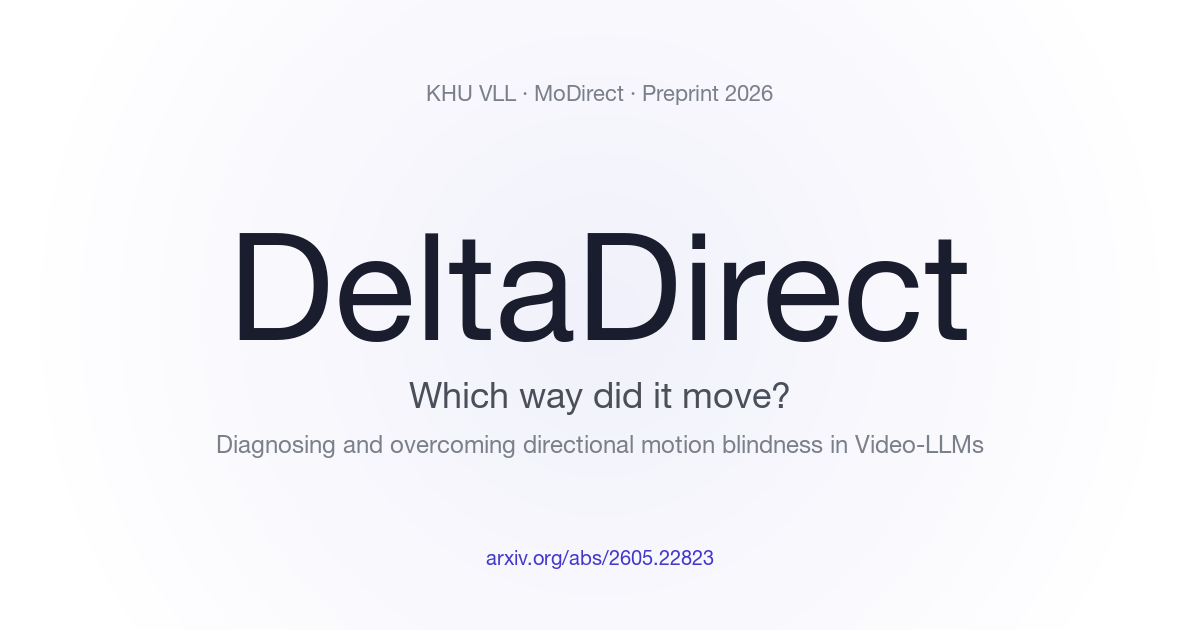
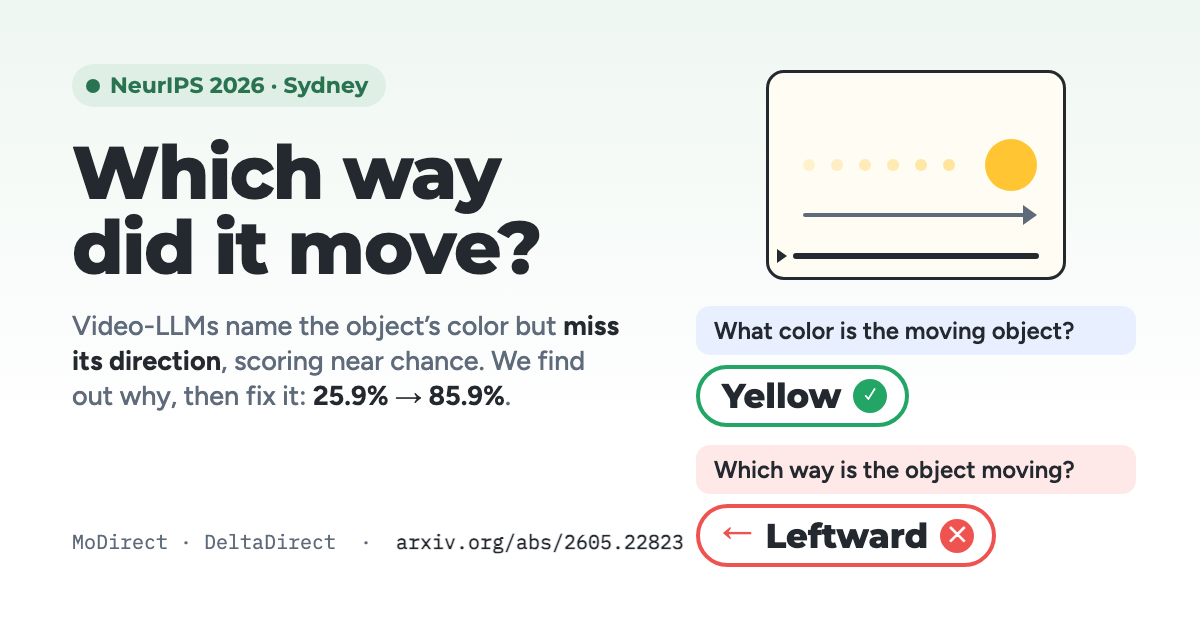
Redraw the link-preview card; add a promo kit
The old og-card was a text-only card that still said Preprint 2026.
The new one carries the NeurIPS 2026 badge, the yellow ball, the
Yellow / Leftward Q&A and 25.9% -> 85.9%. Its source is
tools/og-card.html, rendered by tools/render-og.sh with headless Chrome.

docs/promo-kit.md holds ready-to-post copy for X, LinkedIn, Reddit and
Korean channels, with the asset for each post and a posting order.

diff --git a/tools/og-card.html b/tools/og-card.html
@@ -1,0 +1,80 @@
+<!DOCTYPE html>
+<!-- The link-preview card (1200×630). Render it with tools/render-og.sh. -->
+<html lang="en">
+<head>
+  <meta charset="UTF-8">
+  <link rel="stylesheet" href="../css/fonts.css">
+  <style>
+    html, body { margin: 0; width: 1200px; height: 630px; overflow: hidden; }
+    body {
+      background: #ffffff; color: #24292f;
+      font-family: "Figtree", -apple-system, "Helvetica Neue", Arial, sans-serif;
+      position: relative;
+    }
+    .band { position: absolute; inset: 0; background: linear-gradient(180deg, #eff7f2 0%, #ffffff 70%); }
+    .left { position: absolute; left: 72px; top: 64px; width: 560px; }
+    .venue {
+      display: inline-flex; align-items: center; gap: 10px;
+      font-family: "Montserrat", sans-serif; font-weight: 700; font-size: 22px;
+      color: #2a7350; background: #e0efe6; border-radius: 999px; padding: 8px 18px 8px 14px;
+    }
+    .venue .dot { width: 14px; height: 14px; border-radius: 50%; background: #2a7350; }
+    h1 {
+      font-family: "Montserrat", sans-serif; font-weight: 800; font-size: 74px; line-height: 1.02;
+      letter-spacing: -0.02em; margin: 28px 0 22px;
+    }
+    .sub { font-size: 27px; line-height: 1.3; color: #5f6b7a; font-weight: 500; margin: 0; }
+    .sub b { color: #24292f; font-weight: 700; }
+    .foot { position: absolute; left: 72px; bottom: 56px; font-family: "IBM Plex Mono", monospace; font-size: 20px; color: #5f6b7a; }
+    .foot b { color: #24292f; font-weight: 600; }
+
+    /* the demo: video frame, then two Q/A pairs */
+    .demo { position: absolute; right: 64px; top: 70px; width: 440px; }
+    .frame {
+      width: 300px; height: 210px; margin: 0 auto 26px; border: 3px solid #24292f; border-radius: 18px;
+      background: #fffdf3; position: relative; box-sizing: border-box;
+    }
+    .trail { position: absolute; left: 34px; top: 86px; display: flex; gap: 16px; align-items: center; }
+    .trail i { width: 12px; height: 12px; border-radius: 50%; background: #ffc533; opacity: .45; }
+    .trail i:nth-child(1) { opacity: .2 } .trail i:nth-child(2) { opacity: .25 } .trail i:nth-child(3) { opacity: .3 }
+    .trail i:nth-child(4) { opacity: .35 } .trail i:nth-child(5) { opacity: .4 } .trail i:nth-child(6) { opacity: .45 }
+    .ball { position: absolute; left: 216px; top: 66px; width: 52px; height: 52px; border-radius: 50%; background: #ffc533; }
+    .arrow { position: absolute; left: 34px; top: 140px; width: 232px; height: 4px; background: #5f6b7a; border-radius: 2px; }
+    .arrow::after { content: ""; position: absolute; right: -2px; top: -8px; border: 10px solid transparent; border-left: 14px solid #5f6b7a; border-right: 0; }
+    .bar { position: absolute; left: 24px; right: 24px; bottom: 18px; height: 6px; border-radius: 3px; background: #24292f; }
+    .bar::before { content: ""; position: absolute; left: -16px; top: -4px; border: 7px solid transparent; border-left: 10px solid #24292f; border-right: 0; }
+    .q { font-weight: 600; font-size: 24px; padding: 10px 18px; border-radius: 14px; margin: 0 0 10px; }
+    .q.blue { background: #e8f0ff; } .q.red { background: #ffe9e8; }
+    .a {
+      display: inline-flex; align-items: center; gap: 12px; font-family: "Montserrat", sans-serif; font-weight: 800;
+      font-size: 34px; padding: 6px 18px 6px 22px; border: 4px solid; border-radius: 999px; margin: 0 0 18px; background: #fff;
+    }
+    .a.ok { border-color: #22a565; } .a.no { border-color: #ef5350; }
+    .mark { width: 34px; height: 34px; border-radius: 50%; display: inline-grid; place-items: center; color: #fff; font-size: 22px; font-family: sans-serif; }
+    .ok .mark { background: #22a565; } .no .mark { background: #ef5350; }
+    .no .dir { color: #ef5350; font-weight: 700; margin-right: 2px; }
+  </style>
+</head>
+<body>
+  <div class="band"></div>
+  <div class="left">
+    <span class="venue"><span class="dot"></span>NeurIPS 2026 · Sydney</span>
+    <h1>Which way<br>did it move?</h1>
+    <p class="sub">Video-LLMs name the object’s color but <b>miss its direction</b>, scoring near chance. We find out why, then fix it: <b>25.9% → 85.9%</b>.</p>
+  </div>
+  <p class="foot">MoDirect · DeltaDirect &nbsp;·&nbsp; <b>arxiv.org/abs/2605.22823</b></p>
+
+  <div class="demo">
+    <div class="frame">
+      <div class="trail"><i></i><i></i><i></i><i></i><i></i><i></i></div>
+      <div class="ball"></div>
+      <div class="arrow"></div>
+      <div class="bar"></div>
+    </div>
+    <p class="q blue">What color is the moving object?</p>
+    <p class="a ok">Yellow <span class="mark">✓</span></p>
+    <p class="q red">Which way is the object moving?</p>
+    <p class="a no"><span class="dir">←</span> Leftward <span class="mark">✕</span></p>
+  </div>
+</body>
+</html>

diff --git a/docs/promo-kit.md b/docs/promo-kit.md
@@ -1,0 +1,223 @@
+# 홍보 키트 — Which Way Did It Move? (NeurIPS 2026)
+
+바로 복사해서 올릴 수 있게 채널별 글과 첨부 파일을 정리했다. 숫자는 전부 `data/results.json`과 프로젝트 페이지 기준.
+
+링크
+- 페이지: https://jong980812.github.io/which-way-did-it-move/
+- arXiv: https://arxiv.org/abs/2605.22823
+- 코드: https://github.com/KHU-VLL/DeltaDirect
+- 데이터: https://huggingface.co/datasets/KHUjongseo/Modirect-family
+- HF Papers: https://huggingface.co/papers/2605.22823
+
+---
+
+## 0. 한 줄 메시지와 숫자 치트시트
+
+한 줄: **Video-LLM은 공 색깔은 맞히지만 어느 쪽으로 움직였는지는 찍기 수준이다. 왜 그런지 찾아냈고, 고쳤다.**
+
+| 쓸 숫자 | 값 |
+|---|---|
+| LLaVA-Video-7B, MoDirect-SynBench | 25.9% (chance 25%) |
+| GPT-5 / Gemini 2.5 Flash / Qwen2.5-VL-72B | 58.9 / 53.5 / 57.3 |
+| 모션 특화 모델 최고 (Motion-o-7B) | 37.7 |
+| 프로브 정확도 encoder → projector → LLM | 99.8 → 96.5 → 95.3 |
+| 모델 자신의 답 (Primitive-on-Syn) | 27.6 |
+| 튜닝 후 in-domain | 27.6 → 99.5 |
+| magnitude만 복원했을 때 OOD 회복 | 최대 +15.5 (Cutout-on-Real) |
+| DeltaDirect, SynBench | 25.9 → 85.9 |
+| DeltaDirect, RealBench (실제 영상 튜닝 데이터 0) | 43.1 → 64.5 (+21.4) |
+| Qwen2-0.5B + DeltaDirect, SynBench | 92.4 |
+| 데이터 | MoDirect-Inst 100K, SynBench 4 도메인 × 6K, RealBench 2,024 |
+
+---
+
+## 1. 첨부 파일 매핑
+
+| 파일 | 어디에 | 비고 |
+|---|---|---|
+| `materials/hero_reel_1920x1200_intro.mp4` | X 1번 트윗, LinkedIn | 29초, 1.3MB. 첫 트윗은 반드시 영상 |
+| `materials/hero_reel_1080x1080.gif` | GitHub README 상단, Reddit | 8.7MB (X는 15MB까지 가능) |
+| `static/videos/hero_reel_4x5.mp4` | Instagram, LinkedIn 모바일 | 세로 4:5 |
+| `static/images/teaser_b.png` | X 2번 트윗 (색 vs 방향 막대) | 가장 직관적인 한 장 |
+| `static/images/figure_3.png` | X 3번 트윗 (binding gap) | |
+| `static/images/fig5_magnitude.png` | X 4번 트윗 (magnitude deficit) | |
+| `static/videos/deltadirect_reel_1920x840.mp4` | X 5번 트윗 (method) | 18초 |
+| `static/videos/domains/*.mp4` | 데이터셋 트윗, HF 카드 | 4개 도메인 예시 영상 |
+| `static/images/og-card.png` | 자동 (링크 미리보기) | 이번에 새로 그림, 아래 9절 |
+
+---
+
+## 2. X (Twitter) 스레드 — 영어
+
+링크는 1번 트윗에 넣지 않는다(도달률이 떨어짐). 마지막 트윗과 답글에 몰아 넣는다.
+
+**1/**
+Video-LLMs can tell you the ball is yellow.
+Ask which way it moved, and most of them are at chance.
+
+GPT-5 gets 58.9%. Open 7B models sit at 25%.
+
+We call it *directional motion blindness*. We find where it comes from, and we fix it.
+NeurIPS 2026 🧵
+📎 `hero_reel_1920x1200_intro.mp4`
+
+**2/**
+The test is as simple as it gets: one object, plain background, moving left / right / up / down. Four-way multiple choice, chance = 25%.
+
+LLaVA-Video-7B: 25.9%. Motion-specialized models don't do better. Color on the same videos: >90%.
+📎 `teaser_b.png`
+
+**3/**
+So where does the direction get lost?
+
+We trace it with linear probes. Vision encoder: 99.8%. Projector: 96.5%. LLM hidden states: 95.3%.
+The model's own answer: 27.6%.
+
+The information is there. It never gets bound to the answer. We call this the *direction binding gap*.
+📎 `figure_3.png`
+
+**4/**
+Instruction tuning on synthetic data closes the gap in-domain (27.6 → 99.5), but it reopens on harder domains.
+
+Concept-vector analysis shows why: the direction concept points the *same way* across domains, but its *magnitude* shrinks with visual complexity. Rescaling magnitude alone recovers up to 15.5 points.
+📎 `fig5_magnitude.png`
+
+**5/**
+The diagnosis says where to intervene: the projector.
+
+DeltaDirect is a training-only auxiliary head that predicts normalized 2-D motion vectors from adjacent-frame feature deltas. Nothing changes at inference.
+📎 `deltadirect_reel_1920x840.mp4`
+
+**6/**
+Results, LLaVA-Video-7B:
+• MoDirect-SynBench 25.9% → 85.9%
+• Real videos (SSv2 / KTH / TOMATO) +21.4 points, with zero real-world tuning data
+• Standard video benchmarks preserved
+
+A 0.5B LLM with DeltaDirect hits 92.4% on SynBench.
+
+**7/**
+Everything is released:
+• MoDirect-Inst: 100K videos with per-frame motion vectors
+• MoDirect-SynBench (4 domains × 6K) and RealBench
+• Code, Apache-2.0
+
+📄 https://arxiv.org/abs/2605.22823
+🌐 https://jong980812.github.io/which-way-did-it-move/
+💻 https://github.com/KHU-VLL/DeltaDirect
+🤗 https://huggingface.co/datasets/KHUjongseo/Modirect-family
+
+**8/**
+Joint work with Hyuntak Lee (co-first), Sunghun Kim, Sooa Kim, Jihoon Chung (Princeton) and Jinwoo Choi, at KHU VLL.
+
+Come find us in Sydney. If your Video-LLM also can't tell left from right, we'd love to hear about it.
+
+답글(스레드 밖): "If you find this useful, the HF Papers page is here: https://huggingface.co/papers/2605.22823" 그리고 `@_akhaliq` 태그는 7번 트윗에 리플로.
+
+---
+
+## 3. LinkedIn — 영어
+
+Our paper "Which Way Did It Move? Diagnosing and Overcoming Directional Motion Blindness in Video-LLMs" was accepted to NeurIPS 2026.
+
+The finding is easy to state. Show a Video-LLM a single yellow ball moving left to right. It will tell you the ball is yellow. Ask which way it moved, and most models answer at chance level. GPT-5 reaches 58.9%; open 7B models sit at 25%.
+
+We traced the failure through the model. Linear probes recover the direction from the vision encoder, the projector and the LLM hidden states at 95 to 99% accuracy. The model's own answer is correct 27.6% of the time. The information is present but never bound to the answer, which we call the direction binding gap.
+
+The diagnosis pointed at one place to intervene. DeltaDirect is a training-only objective at the projector that predicts 2-D motion vectors from adjacent-frame feature deltas. It raises LLaVA-Video-7B from 25.9% to 85.9% on our synthetic benchmark and by 21.4 points on real videos, with no real-world tuning data and no change at inference.
+
+We release MoDirect, a dataset family of 100K instruction-tuning videos plus synthetic and real benchmarks, and the code.
+
+Paper: https://arxiv.org/abs/2605.22823
+Project page: https://jong980812.github.io/which-way-did-it-move/
+Code and data: https://github.com/KHU-VLL/DeltaDirect
+
+With Hyuntak Lee, Sunghun Kim, Sooa Kim, Jihoon Chung and Jinwoo Choi. See you in Sydney.
+📎 `hero_reel_1920x1200_intro.mp4`
+
+---
+
+## 4. 한국어 포스트 (X / 페이스북 / 링크드인)
+
+NeurIPS 2026에 논문이 붙었습니다. "Which Way Did It Move?"
+
+내용은 한 문장입니다. Video-LLM한테 노란 공이 왼쪽에서 오른쪽으로 가는 영상을 보여주면, 공이 노란색인 건 맞히는데 어느 쪽으로 갔는지는 찍는 수준(25%)입니다. GPT-5도 58.9%입니다.
+
+왜 그런지 모델 안을 따라가 봤습니다. 비전 인코더, 프로젝터, LLM 히든 스테이트 어디서든 linear probe로 방향을 95~99% 읽어낼 수 있는데, 정작 모델의 답은 27.6%입니다. 정보는 있는데 답에 안 묶이는 것, 이걸 direction binding gap이라고 이름 붙였습니다.
+
+그래서 프로젝터 단에서 인접 프레임 feature 차이로 2D 모션 벡터를 맞히게 하는 보조 목적함수(DeltaDirect)를 학습 때만 붙였습니다. 추론은 그대로인데 25.9% → 85.9%, 실제 영상에서는 실제 영상 학습 데이터 없이 +21.4p입니다.
+
+데이터셋(MoDirect, 100K)과 코드도 공개했습니다.
+논문 https://arxiv.org/abs/2605.22823
+페이지 https://jong980812.github.io/which-way-did-it-move/
+
+이현탁(공동 1저자), 김성훈, 김수아, 정지훈(Princeton), 최진우 교수님과 함께했습니다. 시드니에서 뵙겠습니다.
+📎 `hero_reel_1920x1200_intro.mp4`
+
+---
+
+## 5. Reddit r/MachineLearning — [R]
+
+제목:
+**[R] Video-LLMs can't tell which way an object moved (near chance). We trace it to a "direction binding gap" and fix it with a projector-level objective (NeurIPS 2026)**
+
+본문:
+Paper: https://arxiv.org/abs/2605.22823 · Page: https://jong980812.github.io/which-way-did-it-move/ · Code: https://github.com/KHU-VLL/DeltaDirect · Data: https://huggingface.co/datasets/KHUjongseo/Modirect-family
+
+**TL;DR.** On videos of a single object moving left/right/up/down, most Video-LLMs are at chance (25%). LLaVA-Video-7B: 25.9%, GPT-5: 58.9%. Color on the same videos is >90%. We call this directional motion blindness.
+
+**Diagnosis.** Linear probes decode the direction from the vision encoder (99.8%), projector (96.5%) and LLM hidden states (95.3%), but the model's answer is 27.6%. The signal exists and never gets bound to the answer token (direction binding gap). It holds across every architecture and scale we tested. Synthetic instruction tuning closes the gap in-domain (→ 99.5%) but it reopens out of domain; concept-vector analysis shows the direction concept keeps the same orientation across domains while its magnitude drops with visual complexity. Rescaling magnitude alone recovers up to 15.5 points.
+
+**Fix.** DeltaDirect: a training-only auxiliary head at the projector that predicts normalized 2-D motion vectors from adjacent-frame feature deltas. Inference unchanged. LLaVA-Video-7B goes 25.9 → 85.9 on MoDirect-SynBench and +21.4 on real videos (SSv2/KTH/TOMATO) with no real tuning data; standard video benchmarks are preserved. A Qwen2-0.5B LLM with DeltaDirect reaches 92.4.
+
+**Released.** MoDirect-Inst (100K videos, per-frame motion vectors), MoDirect-SynBench (4 domains × 6K, 4-way MCQ), MoDirect-RealBench. Code is Apache-2.0, data is CC-BY-NC-4.0.
+
+Happy to answer questions. The 26-second reel on the project page is the fastest way to see the whole story.
+
+---
+
+## 6. 개인 연락 템플릿 (관련 연구자, 3줄)
+
+보낼 만한 사람: TOMATO, MotionSight, Motion-o, VideoLLaMA3, Qwen-VL 저자, 그리고 video-LLM 해석 가능성(probing / logit lens) 쪽 연구자. 인용한 논문 1저자들에게 보내는 게 답장률이 제일 높다.
+
+> Subject: Video-LLMs and signed motion direction (NeurIPS 2026)
+>
+> Hi [Name], I'm Jongseo Lee from KHU VLL. We cited [their paper] in our NeurIPS 2026 paper on why Video-LLMs fail at signed motion direction (near chance on a single moving object) and how a projector-level objective fixes it (25.9% → 85.9%). The 26-second summary is at https://jong980812.github.io/which-way-did-it-move/ and the data is on Hugging Face. We evaluated [their model/benchmark] in Table 1, so I thought you'd want to see it. Any feedback is welcome, and we'd be glad to meet in Sydney.
+
+---
+
+## 7. 채널과 순서
+
+**하루 안에 (D-day, 화~목, 한국 밤 10시~12시 = 미국 동부 오전)**
+1. X 스레드 (2절). 올린 뒤 연구실 계정, 공저자, 지도교수님 리트윗.
+2. 7번 트윗 리플에 `@_akhaliq` 태그. AK가 집어 주면 HF Papers 트래픽이 온다.
+3. HF Papers 페이지에서 **authorship claim** (현재 업보트 1, 본인뿐). 공저자 전원 claim.
+4. LinkedIn (3절). 영상 첨부.
+5. 한국어 포스트 (4절): 페이스북 TensorFlow KR / AI Korea 그룹, 개인 계정.
+
+**이틀 안에**
+6. Reddit r/MachineLearning (5절). 미국 오전에 올리고 댓글에 2시간 붙어 있을 것.
+7. GitHub README는 배지와 썸네일 SVG가 이미 잘 돼 있다. 정적 썸네일 자리에 `hero_reel_1080x1080.gif`를 넣으면 움직이는 첫인상이 된다. repo topics에 `video-llm`, `motion-understanding`, `benchmark`, `neurips-2026` 추가.
+8. HF 데이터셋 카드 YAML에 `arxiv: 2605.22823` 태그가 **없다** (확인함). `tags:` 아래에 `- arxiv:2605.22823` 한 줄을 넣으면 HF Papers 페이지에 데이터셋이 자동으로 묶이고, 데이터셋 페이지에도 논문 링크가 뜬다.
+9. 개인 연락 (6절) 5~10명.
+
+**한 주 안에**
+10. 경희대 홍보팀 / 소프트웨어융합대학 뉴스에 제보 (한국어 포스트 그대로 보내면 됨).
+11. alphaXiv에 논문 페이지 확인, 저자 코멘트 하나 남기기.
+12. NeurIPS 전: 포스터와 5분 영상에 hero reel 재사용. 포스터 QR은 프로젝트 페이지로.
+
+---
+
+## 8. 가장 잘 먹힐 훅 (어디서든 첫 문장)
+
+- "It knows the ball is yellow. It doesn't know which way it went."
+- "GPT-5 gets 58.9% on left/right/up/down."
+- "The direction is decodable at 95% inside the model. The answer is 27.6%."
+
+---
+
+## 9. 이번에 바꾼 것
+
+- `static/images/og-card.png`를 다시 그렸다. 이전 카드는 "Preprint 2026"이라고 적힌 텍스트 카드였다. 새 카드는 NeurIPS 2026 배지, 노란 공, Yellow ✓ / Leftward ✕, 25.9% → 85.9%. X, Slack, LinkedIn, 카톡 어디에 링크를 붙여도 이 그림이 뜬다.
+- 소스는 `tools/og-card.html`, 렌더는 `tools/render-og.sh` (헤드리스 크롬). 문구를 바꾸면 스크립트만 다시 돌리면 된다.
+- 배포 후 미리보기 캐시 갱신: X는 https://cards-dev.twitter.com/validator 가 없어졌으니 새 트윗에 붙여 보면 되고, LinkedIn은 https://www.linkedin.com/post-inspector/ 에 URL을 넣어 강제 갱신.
